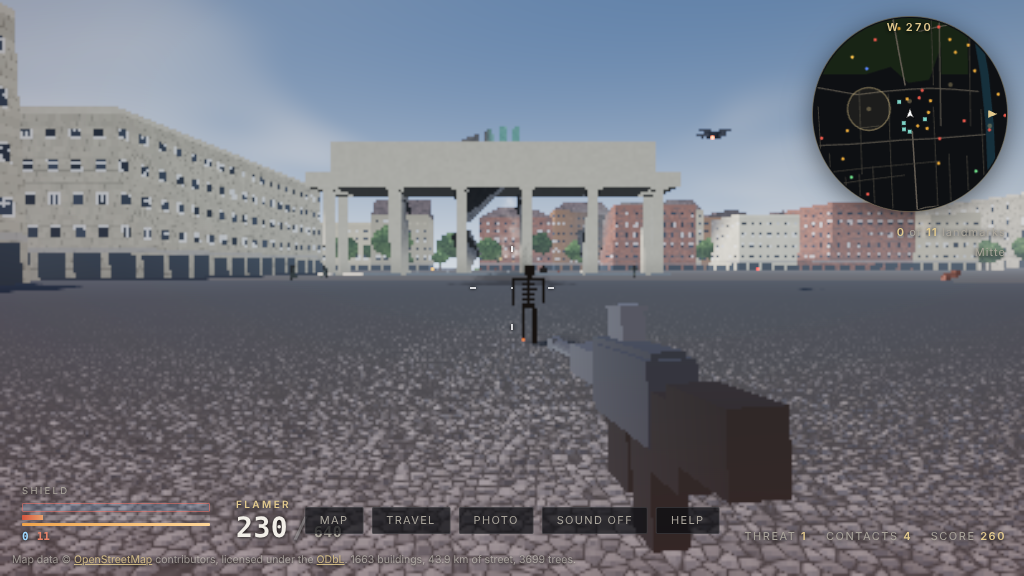
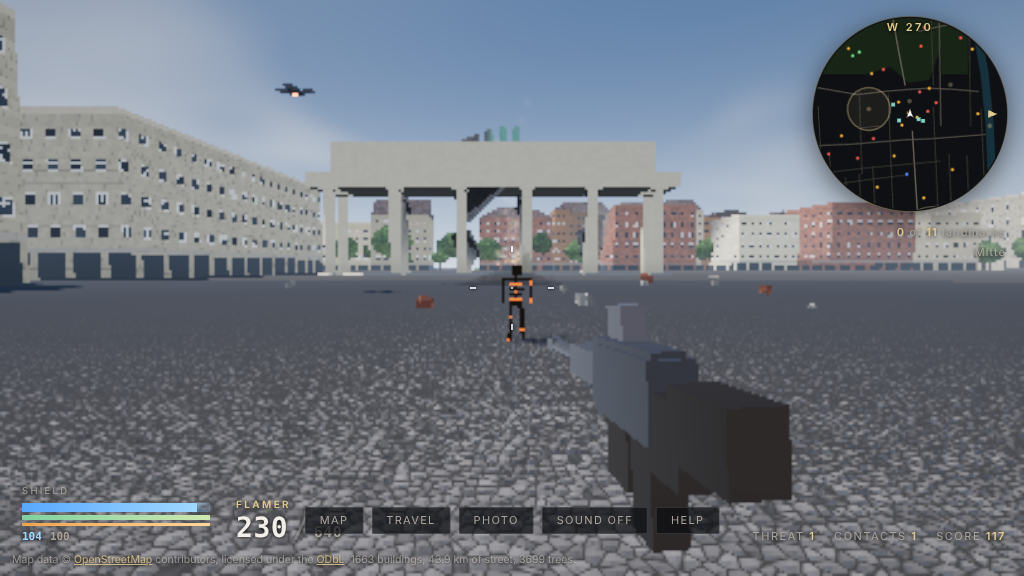
The mech guns converge on what the pilot is looking at

diff --git a/src/game/mechs.js b/src/game/mechs.js
@@ -200,6 +200,33 @@ export class Mechs {
     };
   }
 
+  /**
+   * Where the guns are pointed, as a point in the world rather than as a
+   * direction: the first thing the torso's own line of sight runs into, or a
+   * long way down that line when it runs into nothing.
+   *
+   * The guns are on the arms, two metres out from the middle of the body. A
+   * gun that fired straight down its own barrel would put every round two
+   * metres to the right of whatever the pilot was looking at, which at thirty
+   * metres is a clean miss against something three metres wide. So they
+   * converge on this point instead, the way a real gun mount is harmonised,
+   * and what you are looking at is what you hit.
+   */
+  aimPoint(m, range) {
+    const a = this.aim(m);
+    const eye = { x: m.x, y: m.y + m.spec.eye, z: m.z };
+    const hit = this.world.raycast(eye.x, eye.y, eye.z, a.x, a.y, a.z, range);
+    const t = hit ? hit.t : range;
+    return { x: eye.x + a.x * t, y: eye.y + a.y * t, z: eye.z + a.z * t };
+  }
+
+  /** From a gun to the point the torso is looking at, as a unit vector. */
+  aimFrom(from, at) {
+    const dx = at.x - from.x, dy = at.y - from.y, dz = at.z - from.z;
+    const l = Math.hypot(dx, dy, dz) || 1;
+    return { x: dx / l, y: dy / l, z: dz / l };
+  }
+
   /** Which way the torso is pointing, as a unit vector including the pitch. */
   aim(m) {
     const cp = Math.cos(m.pitch);
@@ -381,7 +408,10 @@ export class Mechs {
         m.burstLeft--;
         if (m.burstLeft <= 0) m.restLeft = gun.rest;
       }
-      if (this.onChaingun) this.onChaingun(m, this.muzzle(m, gun.muzzle), this.aim(m), gun);
+      if (this.onChaingun) {
+        const from = this.muzzle(m, gun.muzzle);
+        this.onChaingun(m, from, this.aimFrom(from, this.aimPoint(m, gun.range)), gun);
+      }
     }
 
     const rockets = s.rockets;
@@ -397,7 +427,8 @@ export class Mechs {
         m.salvoTimer = rockets.gap;
         m.salvoLeft--;
         if (this.onRockets) {
-          this.onRockets(m, this.muzzle(m, rockets.muzzle), this.aim(m), rockets);
+          const from = this.muzzle(m, rockets.muzzle);
+          this.onRockets(m, from, this.aimFrom(from, this.aimPoint(m, 400)), rockets);
         }
       }
     }
